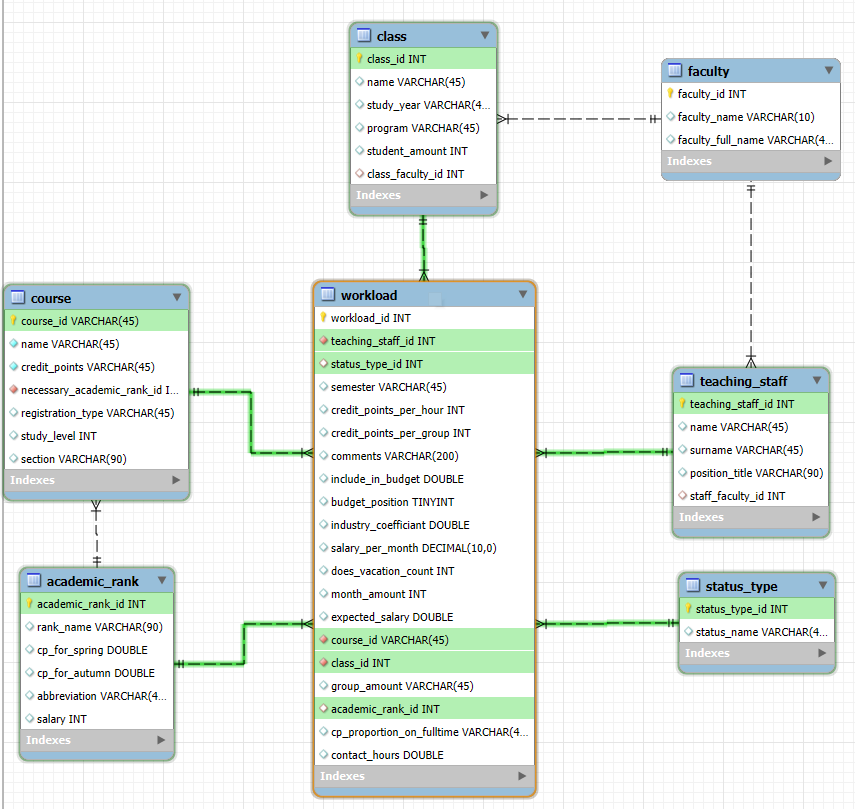
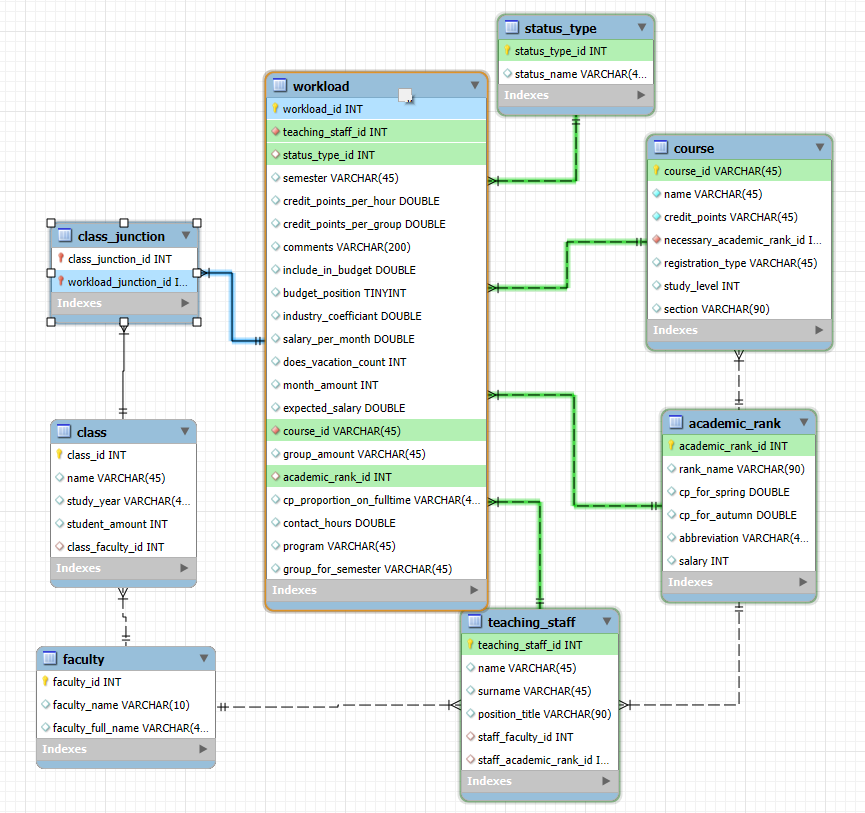
added new db file, updated sql script, created many to many for courses and workloads

diff --git a/readme.md b/readme.md
@@ -22,12 +22,14 @@ co.section AS 'Programmas daļa',
 co.registration_type AS 'Reģistrācija',
 fCourse.faculty_name AS 'Priekšmeta fakultāte',
 fClass.faculty_name AS 'kursa fakultāte',
-cl.program AS 'Programma',
+program AS 'Programma',
 co.study_level AS 'Studiju līmenis',
-cl.name AS 'Grupa semestra grafikam',
+w.group_for_semester AS 'Grupa semestra grafikam',
+-- grupa MANY TO MANY????
+GROUP_CONCAT(class.name SEPARATOR ', ') AS classes,
 w.comments AS 'Komentāri',
 w.budget_position AS 'budžeta pozīcija',
-cl.student_amount AS 'Studentu skaits',
+GROUP_CONCAT(class.student_amount SEPARATOR ', ') AS 'Studentu skaits',
 aStaff.salary AS 'Alga',
 w.industry_coefficiant AS 'Nozares koef.',
 w.salary_per_month AS 'Alga mēnesī',
@@ -37,11 +39,14 @@ w.expected_salary AS 'Algai paredzētais'
 
 FROM workload AS w
 JOIN teaching_staff AS t ON w.teaching_staff_id = t.teaching_staff_id
-JOIN class AS cl ON cl.class_id = w.class_id
 JOIN status_type AS s ON s.status_type_id = w.status_type_id
 JOIN course AS co ON co.course_id = w.course_id
 JOIN academic_rank AS aCourse ON aCourse.academic_rank_id = co.necessary_academic_rank_id
 JOIN academic_rank AS aStaff ON aStaff.academic_rank_id = w.academic_rank_id
 JOIN faculty AS fStaff ON fstaff.faculty_id = t.staff_faculty_id
 JOIN faculty AS fCourse ON fCourse.faculty_id = co.necessary_academic_rank_id
-JOIN faculty AS fClass ON fClass.faculty_id = cl.class_faculty_id
+JOIN class_junction AS classId ON classId.workload_junction_id = w.workload_id
+JOIN class AS class ON class.class_id = classId.class_junction_id
+JOIN faculty AS fClass ON fClass.faculty_id = class.class_faculty_id
+GROUP BY
+w.workload_id
